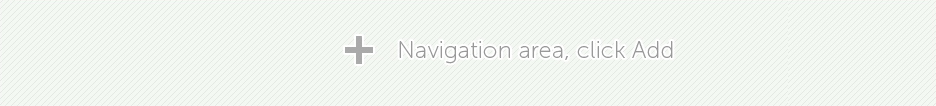
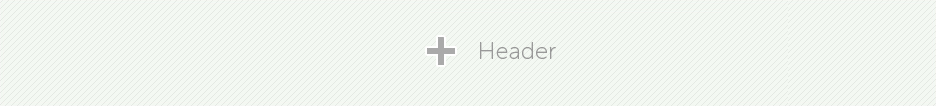
修改Page

Changed region(s): [[0.3408, 0.3396, 0.7436, 0.6226]]

diff --git a/frontend/app/style.css b/frontend/app/style.css
@@ -516,7 +516,7 @@ ul.ts_preview li img	{ display:block; width:300px; margin:0; padding:0;}
 
 
 /* === Logo and Web Icon === */
-.site_logo_btn				{ display:block; position:relative; margin:0 auto; padding:0; width:100px; height:100px; color:#c0c0c0; text-align:center; border-radius:8px; border:3px solid #e3e4e8; background:#fff url(img/null_block.png) center center no-repeat;}
+.site_logo_btn				{ display:block; position:relative; margin:0 auto; padding:0; width:100px; height:100px; color:#c0c0c0; text-align:center; border-radius:8px; border:3px solid #e3e4e8; background:#fff url(img/null_siteblock.png) center center no-repeat;}
 .site_logo_btn:hover		{ border-color:#aaa; color:#c0c0c0;}
 .site_logo_btn span			{ display:block; width:100%; margin:0; padding:0; position:absolute; left:0; bottom:4px; line-height:14px; text-align:center;}
 
@@ -841,7 +841,7 @@ ul.layout_list .active:hover:after{ content:''; display:block; position:absolute
 /* View */
 .header_view				 { position:relative; z-index:3; margin:0; padding:0; height:80px; border:2px dashed #fff; background:url(img/null_header.png) center center no-repeat; -webkit-box-sizing:border-box; -moz-box-sizing:border-box; box-sizing:border-box;}
 .header_view.hover_view		 { border:0px solid #000; border-radius:4px; background:#fff !important; }
-.header_view.hover_view:after{ display:block; text-align:center; font-size:30px; font-style:normal; color:#bbb; line-height:60px; content:'Select Nav style/layout'; }
+.header_view.hover_view:after{ display:block; text-align:center; font-size:30px; font-style:normal; color:#bbb; line-height:60px; content:'Select Nav Bar Style'; }
 
 /* Panel Box */
 .header_panel   		{ position:absolute; left:0; bottom:0px; width:940px; height:80px; z-index:1; border-radius:4px; background:#fff;  box-shadow:0 0 4px rgba(0,0,0,0.5); -webkit-box-sizing:border-box; -moz-box-sizing:border-box; box-sizing:border-box; }
@@ -929,7 +929,7 @@ ul.nav_structure a:hover .ico_edit:hover{ background-position:0 -400px; -ms-filt
 /* =========================================================================================== */
 .footer_view				  { position:relative; z-index:3; margin:0; padding:0; height:80px; border:2px dashed #fff; background:url(img/null_footer.png) center center no-repeat; -webkit-box-sizing:border-box; -moz-box-sizing:border-box; box-sizing:border-box;}
 .footer_view.hover_view		 { border:0px solid #000; border-radius:4px; background:#fff !important; }
-.footer_view.hover_view:after{ display:block; text-align:center; font-size:30px; font-style:normal; color:#bbb; line-height:66px; content:'Select Footer style/layout'; }
+.footer_view.hover_view:after{ display:block; text-align:center; font-size:30px; font-style:normal; color:#bbb; line-height:66px; content:'Select Footer Bar Style'; }
 
 /* Panel Box */
 .footer_panel   			 { position:absolute; left:0; bottom:0px; width:940px; height:82px; z-index:1; border-radius:4px; background:#fff; box-shadow:0 0 4px rgba(0,0,0,0.5); -webkit-box-sizing:border-box; -moz-box-sizing:border-box; box-sizing:border-box; }

diff --git a/frontend/page.html b/frontend/page.html
@@ -60,7 +60,7 @@
 
 <!-- =======================================  tip_auto ======================================= -->
 <div class="tip_box tip_auto" ng-cloak ng-show="'auto'==cssblocktipbox" >
-    <h1><a href="###" class="TipBoxClose">X</a>Auto pick block attribute</h1>
+    <h1><a href="###" class="TipBoxClose">X</a>Auto Block Data</h1>
     <div class="tabbable tabs-below">
         <div class="tab-content">
             <!-- Tab1: Layout -->
@@ -98,7 +98,7 @@
                     <dd>
                         <div class="tipbox_sort">
                             <label class="radio">
-                                <input type="radio" name="optionsRadios" ng-model="newblock.blocksortby" value="bydate" >By Date (Descend)
+                                <input type="radio" name="optionsRadios" ng-model="newblock.blocksortby" value="bydate" >Date
                             </label>
                             <label class="radio">
                                 <input type="radio" name="optionsRadios" ng-model="newblock.blocksortby" value="bypv">By PV (Descend)
@@ -601,17 +601,14 @@
                         <!-- ======================================= Page Attribute Panel ======================================= -->
                         <div class="page_attri_panel" ng-cloak ng-show="$index == selectedpageattributeindex">
                             <a href="" class="panel_close" ng-click="closeeditpageattribute($index)">X</a>
-                            <h2>Page Attribute</h2>
+                            <h2>Page Data</h2>
                             <div class="page_attri_cont">
                                 <form>
                                     <input type="text" class="" placeholder="Page Name" ng-model="page.pagename">
-                                    <i class="clearfix">This name for this page that is presented in your navigation bar.</i>
 
                                     <input type="text"  class="" placeholder="Page Title" ng-model="page.pagetitle">
-                                    <i class="clearfix">The title that appears in the top of the browser window for this page.</i>
 
                                     <input type="text" class="" placeholder="Page Url" ng-model="page.pageurl">
-                                    <i class="clearfix">This name for this page that is presented in your navigation bar.</i>
                                     <div class="btn_box">
                                     	<a href="#" class="btn btn-delete" ng-click="delpage(page)">Del</a>
                                         <a href="#" class="btn btn-save" ng-click="editsavepage(page)">Save</a>
